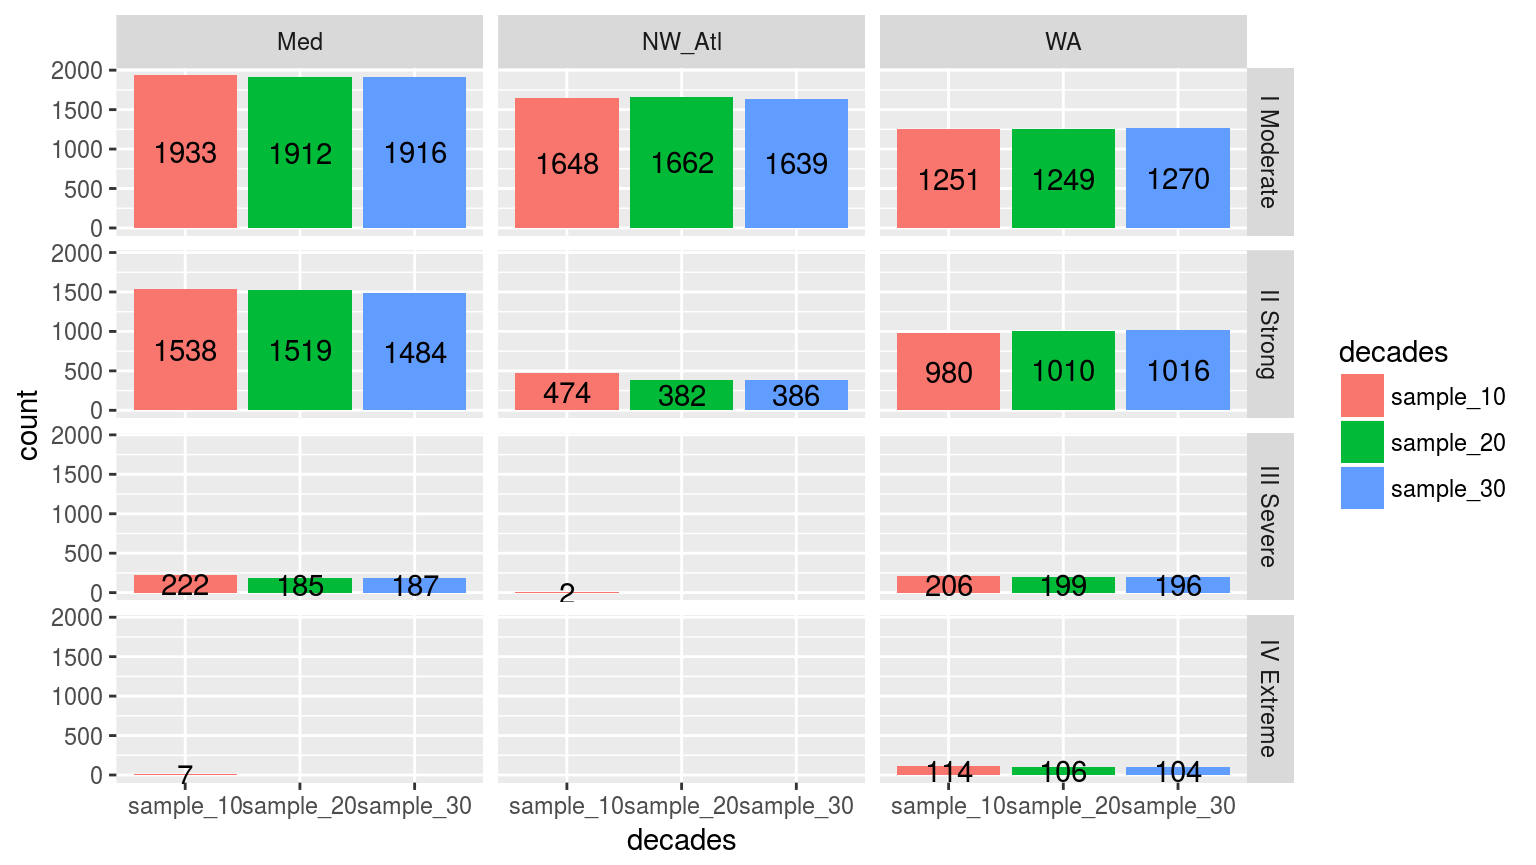
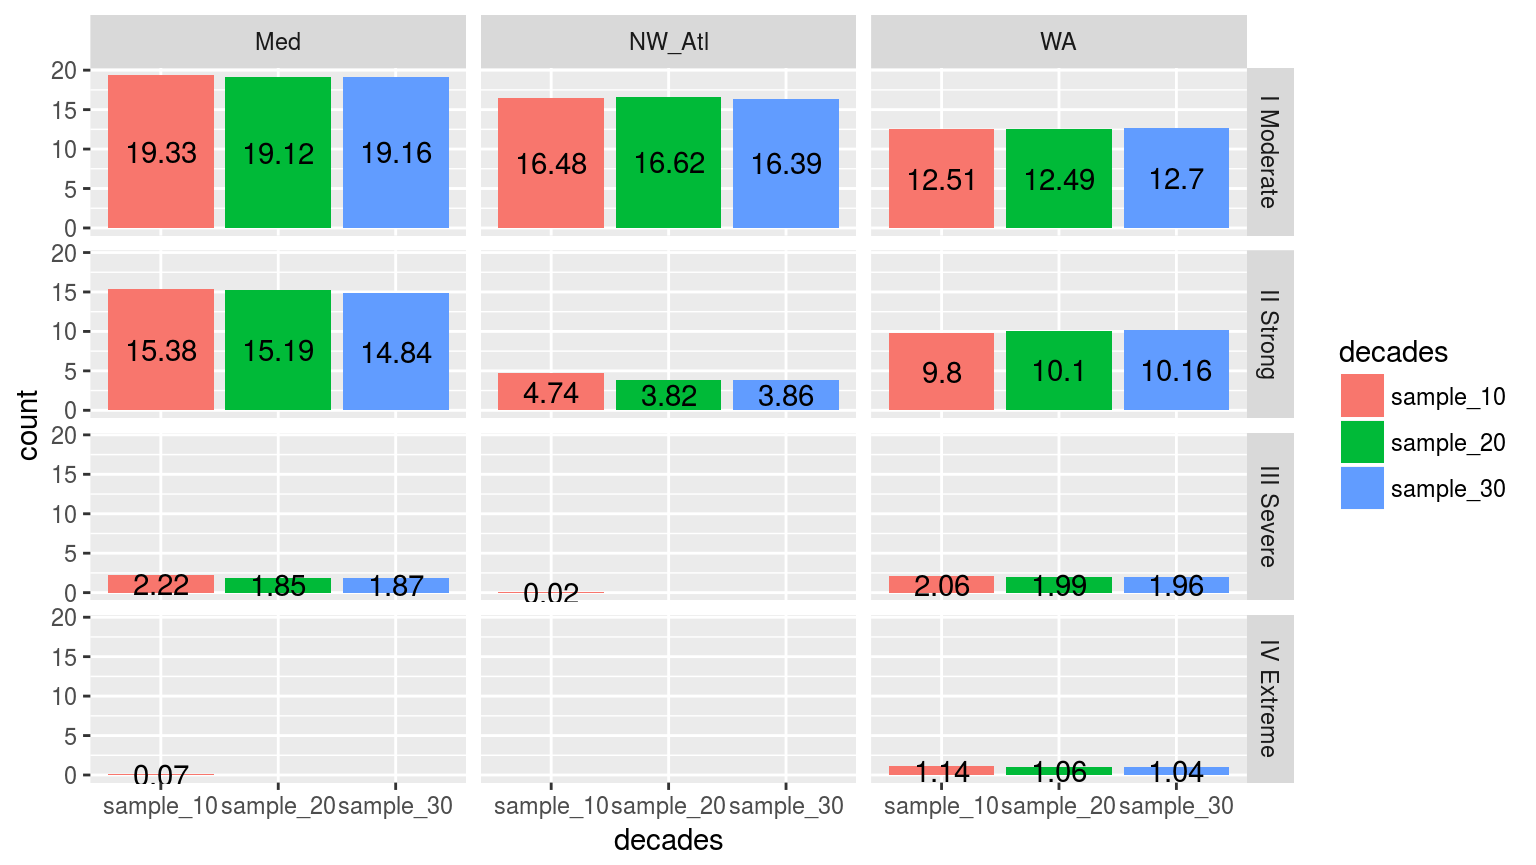
Rebuilt article to show changes

diff --git a/docs/articles/time_series_duration.html b/docs/articles/time_series_duration.html
@@ -110,7 +110,7 @@
       <h1>Assessing the effect of time series duration</h1>
                         <h4 class="author">Robert Schlegel</h4>
             
-            <h4 class="date">2018-06-13</h4>
+            <h4 class="date">2018-06-21</h4>
       
       
       <div class="hidden name"><code>time_series_duration.Rmd</code></div>
@@ -147,7 +147,8 @@
 <span class="kw">library</span>(lubridate) <span class="co"># This is intentionally activated after data.table</span>
 <span class="kw">library</span>(fasttime)
 <span class="kw">library</span>(ggpubr)
-<span class="kw">library</span>(boot)</code></pre></div>
+<span class="kw">library</span>(boot)
+<span class="kw">library</span>(FNN)</code></pre></div>
 <p>In order to control more tightly for the effect of shorter time series I am going to standardise the length of the 30 year time series as well. Because the built in time series are actually 32 years long I am going to nip off those last two years. The WMO recommends that climatologies be 30 years in length, starting on the first year of a decade (e.g. 1981). Unfortunately the OISST data from which the built-in time series have been drawn only start in 1982. For this reason we will set the 30 year climatology period as being from 1982 – 2011. To match this period, but shorter, 2011 will be taken as the last year for comparison and the data from 2012 onward will not be used.</p>
 <div class="sourceCode"><pre class="sourceCode r"><code class="sourceCode r"><span class="co"># First put all of the data together and create a site column</span>
 sst_ALL &lt;-<span class="st"> </span><span class="kw">rbind</span>(sst_Med, sst_NW_Atl, sst_WA) <span class="op">%&gt;%</span><span class="st"> </span>
@@ -411,9 +412,9 @@ Confidence intervals of the different metrics for the three different clim perio
 parse_date_sst &lt;-<span class="st"> </span><span class="cf">function</span>(data, rep_col, len) {
   parsed &lt;-<span class="st"> </span>data <span class="op">%&gt;%</span><span class="st"> </span>
 <span class="st">    </span><span class="kw">mutate</span>(<span class="dt">id =</span> rep_col,
-           <span class="dt">y =</span> <span class="kw"><a href="http://www.rdocumentation.org/packages/lubridate/topics/year">year</a></span>(t),
-           <span class="dt">m =</span> <span class="kw"><a href="http://www.rdocumentation.org/packages/lubridate/topics/month">month</a></span>(t),
-           <span class="dt">d =</span> <span class="kw"><a href="http://www.rdocumentation.org/packages/lubridate/topics/day">day</a></span>(t)) <span class="op">%&gt;%</span><span class="st"> </span>
+           <span class="dt">y =</span> <span class="kw"><a href="http://lubridate.tidyverse.org/reference/year.html">year</a></span>(t),
+           <span class="dt">m =</span> <span class="kw"><a href="http://lubridate.tidyverse.org/reference/month.html">month</a></span>(t),
+           <span class="dt">d =</span> <span class="kw"><a href="http://lubridate.tidyverse.org/reference/day.html">day</a></span>(t)) <span class="op">%&gt;%</span><span class="st"> </span>
 <span class="st">    </span><span class="kw">group_by</span>(site, rep, doy) <span class="op">%&gt;%</span><span class="st"> </span>
 <span class="st">    </span><span class="kw">mutate</span>(<span class="dt">y =</span> <span class="kw">seq</span>(<span class="dv">2012</span><span class="op">-</span>len, <span class="dt">by =</span> <span class="dv">1</span>, <span class="dt">len =</span> len)) <span class="op">%&gt;%</span><span class="st"> </span>
 <span class="st">    </span><span class="kw">mutate</span>(<span class="dt">t =</span> <span class="kw">as.Date</span>(<span class="kw"><a href="http://www.rdocumentation.org/packages/fasttime/topics/fastPOSIXct">fastPOSIXct</a></span>(<span class="kw">paste</span>(y, m, d, <span class="dt">sep =</span> <span class="st">"-"</span>)))) <span class="op">%&gt;%</span>
@@ -422,7 +423,7 @@ parse_date_sst &lt;-<span class="st"> </span><span class="cf">function</span>(da
   <span class="kw">return</span>(parsed)
 }</code></pre></div>
 <div class="sourceCode"><pre class="sourceCode r"><code class="sourceCode r">sst_ALL_doy &lt;-<span class="st"> </span>sst_ALL <span class="op">%&gt;%</span>
-<span class="st">  </span><span class="kw">mutate</span>(<span class="dt">doy =</span> <span class="kw"><a href="http://www.rdocumentation.org/packages/lubridate/topics/day">yday</a></span>(<span class="kw">as.Date</span>(t))) <span class="op">%&gt;%</span>
+<span class="st">  </span><span class="kw">mutate</span>(<span class="dt">doy =</span> <span class="kw"><a href="http://lubridate.tidyverse.org/reference/day.html">yday</a></span>(<span class="kw">as.Date</span>(t))) <span class="op">%&gt;%</span>
 <span class="st">  </span><span class="kw">nest</span>(<span class="op">-</span>site, <span class="op">-</span>doy)
 
 sst_ALL_repl &lt;-<span class="st"> </span>purrr<span class="op">::</span><span class="kw"><a href="http://www.rdocumentation.org/packages/purrr/topics/rerun">rerun</a></span>(<span class="dv">100</span>, <span class="kw">sst_repl</span>(sst_ALL_doy)) <span class="op">%&gt;%</span>
@@ -811,7 +812,7 @@ sst_ALL_smooth_real_category &lt;-<span class="st"> </span>sst_ALL_smooth_real <
 sst_ALL_smooth_real_category_count &lt;-<span class="st"> </span>sst_ALL_smooth_real_category <span class="op">%&gt;%</span><span class="st"> </span>
 <span class="st">  </span><span class="kw">rename</span>(<span class="dt">decades =</span> id) <span class="op">%&gt;%</span><span class="st"> </span>
 <span class="st">  </span><span class="kw">group_by</span>(site, decades, category) <span class="op">%&gt;%</span><span class="st"> </span>
-<span class="st">  </span><span class="kw">summarise</span>(<span class="dt">count =</span> <span class="kw">n</span>()) <span class="op">%&gt;%</span><span class="st"> </span>
+<span class="st">  </span><span class="kw">summarise</span>(<span class="dt">count =</span> <span class="kw">n</span>()<span class="op">/</span><span class="dv">100</span>) <span class="op">%&gt;%</span><span class="st"> </span>
 <span class="st">  </span><span class="kw">mutate</span>(<span class="dt">category =</span> <span class="kw">factor</span>(category,
                            <span class="dt">levels =</span> <span class="kw">c</span>(<span class="st">"I Moderate"</span>, <span class="st">"II Strong"</span>,
                                       <span class="st">"III Severe"</span>, <span class="st">"IV Extreme"</span>)))
@@ -826,6 +827,119 @@ Simple bar plots showing the counts of the different categories of events from 1
 </p>
 </div>
 <p>Interestingly, when re-sampling for potential clims we actually see the detection of <em>more</em> larger category events with the 10 year periods than with either 20 or 30. As noted earlier, this re-sampling reoves the decadal trend from the data, which then affects the creation of the climatologies being used. With a shorter period being used to create the threshold, it appears that this allows for the detection of ‘larger’ events. Remember that the real temperature values are being used to detect these events, not the re-sampled temperature values that were used to calculate the climatologies. This was because the re-sampled temperatures were too jumbled to detect events with reliably.</p>
+<div id="comparing-top-events" class="section level3">
+<h3 class="hasAnchor">
+<a href="#comparing-top-events" class="anchor"></a>Comparing top events</h3>
+<p>(AJS: I was thinking about the event categories. What we need to do is detect the top five events using the 30 yr climatology.</p>
+<div class="sourceCode"><pre class="sourceCode r"><code class="sourceCode r"><span class="co"># Calculate all event categories, not just the last ten years as done above</span>
+sst_ALL_clim_category_ALL &lt;-<span class="st"> </span>sst_ALL_clim <span class="op">%&gt;%</span><span class="st"> </span>
+<span class="st">  </span><span class="kw">group_by</span>(site, decades) <span class="op">%&gt;%</span><span class="st"> </span>
+<span class="st">  </span><span class="kw">nest</span>() <span class="op">%&gt;%</span><span class="st"> </span>
+<span class="st">  </span><span class="kw">mutate</span>(<span class="dt">res =</span> <span class="kw">map</span>(data, detect_event_category)) <span class="op">%&gt;%</span><span class="st"> </span>
+<span class="st">  </span><span class="kw">select</span>(<span class="op">-</span>data) <span class="op">%&gt;%</span><span class="st"> </span>
+<span class="st">  </span><span class="kw">unnest</span>(res)
+
+<span class="co"># The top 5 events froom 30 years</span>
+sst_ALL_clim_category_30_top_<span class="dv">5</span> &lt;-<span class="st"> </span>sst_ALL_clim_category_ALL <span class="op">%&gt;%</span><span class="st"> </span>
+<span class="st">  </span><span class="kw">filter</span>(decades <span class="op">==</span><span class="st"> "clim_30"</span>,
+         peak_date <span class="op">&gt;=</span><span class="st"> </span><span class="kw">as.Date</span>(<span class="st">"1982-01-01"</span>),
+         peak_date <span class="op">&lt;=</span><span class="st"> </span><span class="kw">as.Date</span>(<span class="st">"2011-12-31"</span>)) <span class="op">%&gt;%</span><span class="st"> </span>
+<span class="st">  </span><span class="kw">group_by</span>(site) <span class="op">%&gt;%</span><span class="st"> </span>
+<span class="st">  </span><span class="kw">arrange</span>(<span class="op">-</span>i_max) <span class="op">%&gt;%</span><span class="st"> </span>
+<span class="st">  </span><span class="kw">slice</span>(<span class="dv">1</span><span class="op">:</span><span class="dv">5</span>)
+
+<span class="co"># The top 5 events froom 20 years</span>
+sst_ALL_clim_category_20_top_<span class="dv">5</span> &lt;-<span class="st"> </span>sst_ALL_clim_category_ALL <span class="op">%&gt;%</span><span class="st"> </span>
+<span class="st">  </span><span class="kw">filter</span>(decades <span class="op">==</span><span class="st"> "clim_20"</span>,
+         peak_date <span class="op">&gt;=</span><span class="st"> </span><span class="kw">as.Date</span>(<span class="st">"1992-01-01"</span>),
+         peak_date <span class="op">&lt;=</span><span class="st"> </span><span class="kw">as.Date</span>(<span class="st">"2011-12-31"</span>)) <span class="op">%&gt;%</span><span class="st"> </span>
+<span class="st">  </span><span class="kw">group_by</span>(site) <span class="op">%&gt;%</span><span class="st"> </span>
+<span class="st">  </span><span class="kw">arrange</span>(<span class="op">-</span>i_max) <span class="op">%&gt;%</span><span class="st"> </span>
+<span class="st">  </span><span class="kw">slice</span>(<span class="dv">1</span><span class="op">:</span><span class="dv">5</span>)
+
+<span class="co"># The top 5 events froom 10 years</span>
+sst_ALL_clim_category_10_top_<span class="dv">5</span> &lt;-<span class="st"> </span>sst_ALL_clim_category_ALL <span class="op">%&gt;%</span><span class="st"> </span>
+<span class="st">  </span><span class="kw">filter</span>(decades <span class="op">==</span><span class="st"> "clim_10"</span>,
+         peak_date <span class="op">&gt;=</span><span class="st"> </span><span class="kw">as.Date</span>(<span class="st">"2002-01-01"</span>),
+         peak_date <span class="op">&lt;=</span><span class="st"> </span><span class="kw">as.Date</span>(<span class="st">"2011-12-31"</span>)) <span class="op">%&gt;%</span><span class="st"> </span>
+<span class="st">  </span><span class="kw">group_by</span>(site) <span class="op">%&gt;%</span><span class="st"> </span>
+<span class="st">  </span><span class="kw">arrange</span>(<span class="op">-</span>i_max) <span class="op">%&gt;%</span><span class="st"> </span>
+<span class="st">  </span><span class="kw">slice</span>(<span class="dv">1</span><span class="op">:</span><span class="dv">5</span>)</code></pre></div>
+<p>Then, using the sections of time series that overlap with these events, use reduced time series, make climatologies, and see how those top five events compare in their event metrics to those detected using the shorter climatologies.</p>
+<div class="sourceCode"><pre class="sourceCode r"><code class="sourceCode r"><span class="co"># RWS: This is a bit of a schlep as it requires a much more nuanced take on how to go about comparing relavent lengths of clim periods. The method used throughout here, that of the most recent 10, 20, or 30 years for the clim period won't work here and I hesitate to create a new methodology this late in the section...</span>
+<span class="co"># RWS: So for now I'm skipping forward to the next step as that will work with the current methodology.</span></code></pre></div>
+<p>Then we do the reverse. Detect events in the reduced time series, find the top five, and see what the matching ones in the full time series are like in comparison.</p>
+<div class="sourceCode"><pre class="sourceCode r"><code class="sourceCode r"><span class="co"># Function for pulling out comparable events based on closest peak dates</span>
+peak_date_index &lt;-<span class="st"> </span><span class="cf">function</span>(df){
+  sst_<span class="dv">30</span> &lt;-<span class="st"> </span>sst_ALL_clim_category_ALL <span class="op">%&gt;%</span><span class="st"> </span>
+<span class="st">    </span><span class="kw">filter</span>(decades <span class="op">==</span><span class="st"> "clim_30"</span>)
+  peak_index &lt;-<span class="st"> </span><span class="kw">as.data.frame</span>(<span class="kw"><a href="http://www.rdocumentation.org/packages/FNN/topics/knn.index">knnx.index</a></span>(<span class="kw">as.matrix</span>(sst_<span class="dv">30</span><span class="op">$</span>peak_date), 
+                                         <span class="kw">as.matrix</span>(df<span class="op">$</span>peak_date), <span class="dt">k =</span> <span class="dv">1</span>))
+  res &lt;-<span class="st"> </span>sst_<span class="dv">30</span>[<span class="kw">as.matrix</span>(peak_index),]
+}</code></pre></div>
+<div class="sourceCode"><pre class="sourceCode r"><code class="sourceCode r"><span class="co"># Find matching events based on nearest peak_date</span>
+sst_ALL_clim_category_10_top_5_match &lt;-<span class="st"> </span><span class="kw">peak_date_index</span>(sst_ALL_clim_category_10_top_<span class="dv">5</span>)
+sst_ALL_clim_category_20_top_5_match &lt;-<span class="st"> </span><span class="kw">peak_date_index</span>(sst_ALL_clim_category_20_top_<span class="dv">5</span>)</code></pre></div>
+<div class="sourceCode"><pre class="sourceCode r"><code class="sourceCode r">sst_ALL_clim_category_top_5_match &lt;-<span class="st"> </span><span class="kw">rbind</span>(<span class="kw">data.frame</span>(sst_ALL_clim_category_10_top_5_match, <span class="dt">match =</span> <span class="st">"clim_10"</span>),
+                                           <span class="kw">data.frame</span>(sst_ALL_clim_category_20_top_5_match, <span class="dt">match =</span> <span class="st">"clim_20"</span>),
+                                           <span class="kw">data.frame</span>(sst_ALL_clim_category_30_top_<span class="dv">5</span>, <span class="dt">match =</span> <span class="st">"clim_30"</span>)) <span class="op">%&gt;%</span><span class="st"> </span>
+<span class="st">  </span><span class="kw">group_by</span>(site, match, category) <span class="op">%&gt;%</span><span class="st"> </span>
+<span class="st">  </span><span class="kw">summarise</span>(<span class="dt">count =</span> <span class="kw">n</span>()) <span class="op">%&gt;%</span><span class="st"> </span>
+<span class="st">  </span><span class="kw">mutate</span>(<span class="dt">category =</span> <span class="kw">factor</span>(category,
+                           <span class="dt">levels =</span> <span class="kw">c</span>(<span class="st">"I Moderate"</span>, <span class="st">"II Strong"</span>,
+                                      <span class="st">"III Severe"</span>, <span class="st">"IV Extreme"</span>)))
+
+<span class="kw">ggplot</span>(sst_ALL_clim_category_top_5_match, <span class="kw">aes</span>(<span class="dt">x =</span> match, <span class="dt">y =</span> count, <span class="dt">fill =</span> match)) <span class="op">+</span>
+<span class="st">  </span><span class="kw">geom_bar</span>(<span class="dt">stat =</span> <span class="st">"identity"</span>, <span class="dt">position =</span> <span class="kw">position_dodge</span>()) <span class="op">+</span>
+<span class="st">  </span><span class="kw">geom_text</span>(<span class="kw">aes</span>(<span class="dt">label =</span> count, <span class="dt">y =</span> count<span class="op">/</span><span class="dv">2</span>)) <span class="op">+</span>
+<span class="st">  </span><span class="kw">facet_grid</span>(category<span class="op">~</span>site)</code></pre></div>
+<div class="figure" style="text-align: center">
+<img src="time_series_duration_files/figure-html/unnamed-chunk-9-1.png" alt="Bar plot showing the categories of events from the 30 year climatology calculations when they are determined by the top five events in the shorter time series. THis isn't terribly informative as it is effectively showing if larger events happened earlier on in the time series or not. It says little about how the climatology period itself affects the categories of events." width="768"><p class="caption">
+Bar plot showing the categories of events from the 30 year climatology calculations when they are determined by the top five events in the shorter time series. THis isn’t terribly informative as it is effectively showing if larger events happened earlier on in the time series or not. It says little about how the climatology period itself affects the categories of events.
+</p>
+</div>
+<p>With the differences in the count of categories for the detected events in the given time series lengths shown above, we will now compare the categories of the matching events between the different climatologies used.</p>
+<div class="sourceCode"><pre class="sourceCode r"><code class="sourceCode r">sst_ALL_clim_category_10_top_5_compare &lt;-<span class="st"> </span><span class="kw">rbind</span>(<span class="kw">data.frame</span>(sst_ALL_clim_category_10_top_<span class="dv">5</span>, <span class="dt">match =</span> <span class="st">"clim_10"</span>),
+                                           <span class="kw">data.frame</span>(sst_ALL_clim_category_10_top_5_match, <span class="dt">match =</span> <span class="st">"clim_30"</span>)) <span class="op">%&gt;%</span><span class="st"> </span>
+<span class="st">  </span><span class="kw">group_by</span>(site, match, category) <span class="op">%&gt;%</span><span class="st"> </span>
+<span class="st">  </span><span class="kw">summarise</span>(<span class="dt">count =</span> <span class="kw">n</span>()) <span class="op">%&gt;%</span><span class="st"> </span>
+<span class="st">  </span><span class="kw">mutate</span>(<span class="dt">category =</span> <span class="kw">factor</span>(category,
+                           <span class="dt">levels =</span> <span class="kw">c</span>(<span class="st">"I Moderate"</span>, <span class="st">"II Strong"</span>,
+                                      <span class="st">"III Severe"</span>, <span class="st">"IV Extreme"</span>)))
+
+<span class="kw">ggplot</span>(sst_ALL_clim_category_10_top_5_compare, <span class="kw">aes</span>(<span class="dt">x =</span> match, <span class="dt">y =</span> count, <span class="dt">fill =</span> match)) <span class="op">+</span>
+<span class="st">  </span><span class="kw">geom_bar</span>(<span class="dt">stat =</span> <span class="st">"identity"</span>, <span class="dt">position =</span> <span class="kw">position_dodge</span>()) <span class="op">+</span>
+<span class="st">  </span><span class="kw">geom_text</span>(<span class="kw">aes</span>(<span class="dt">label =</span> count, <span class="dt">y =</span> count<span class="op">/</span><span class="dv">2</span>)) <span class="op">+</span>
+<span class="st">  </span><span class="kw">facet_grid</span>(category<span class="op">~</span>site)</code></pre></div>
+<div class="figure" style="text-align: center">
+<img src="time_series_duration_files/figure-html/unnamed-chunk-10-1.png" alt="Comparing the categories of the top 5 events detected with a 10 year climatology as oppossed to those detected with the standard 30 we see that the general pattern is that events are larger with the 30 year climatology period." width="768"><p class="caption">
+Comparing the categories of the top 5 events detected with a 10 year climatology as oppossed to those detected with the standard 30 we see that the general pattern is that events are larger with the 30 year climatology period.
+</p>
+</div>
+<div class="sourceCode"><pre class="sourceCode r"><code class="sourceCode r">sst_ALL_clim_category_20_top_5_compare &lt;-<span class="st"> </span><span class="kw">rbind</span>(<span class="kw">data.frame</span>(sst_ALL_clim_category_20_top_<span class="dv">5</span>, <span class="dt">match =</span> <span class="st">"clim_20"</span>),
+                                           <span class="kw">data.frame</span>(sst_ALL_clim_category_20_top_5_match, <span class="dt">match =</span> <span class="st">"clim_30"</span>)) <span class="op">%&gt;%</span><span class="st"> </span>
+<span class="st">  </span><span class="kw">group_by</span>(site, match, category) <span class="op">%&gt;%</span><span class="st"> </span>
+<span class="st">  </span><span class="kw">summarise</span>(<span class="dt">count =</span> <span class="kw">n</span>()) <span class="op">%&gt;%</span><span class="st"> </span>
+<span class="st">  </span><span class="kw">mutate</span>(<span class="dt">category =</span> <span class="kw">factor</span>(category,
+                           <span class="dt">levels =</span> <span class="kw">c</span>(<span class="st">"I Moderate"</span>, <span class="st">"II Strong"</span>,
+                                      <span class="st">"III Severe"</span>, <span class="st">"IV Extreme"</span>)))
+
+<span class="kw">ggplot</span>(sst_ALL_clim_category_20_top_5_compare, <span class="kw">aes</span>(<span class="dt">x =</span> match, <span class="dt">y =</span> count, <span class="dt">fill =</span> match)) <span class="op">+</span>
+<span class="st">  </span><span class="kw">geom_bar</span>(<span class="dt">stat =</span> <span class="st">"identity"</span>, <span class="dt">position =</span> <span class="kw">position_dodge</span>()) <span class="op">+</span>
+<span class="st">  </span><span class="kw">geom_text</span>(<span class="kw">aes</span>(<span class="dt">label =</span> count, <span class="dt">y =</span> count<span class="op">/</span><span class="dv">2</span>)) <span class="op">+</span>
+<span class="st">  </span><span class="kw">facet_grid</span>(category<span class="op">~</span>site)</code></pre></div>
+<div class="figure" style="text-align: center">
+<img src="time_series_duration_files/figure-html/unnamed-chunk-11-1.png" alt="Comparing the categories of the top 5 events detected with a 20 year climatology as oppossed to those detected with the standard 30 we see that the difference in the size of the categories detected with a 30 year climatology is less than when compared against a 10 year climatology." width="768"><p class="caption">
+Comparing the categories of the top 5 events detected with a 20 year climatology as oppossed to those detected with the standard 30 we see that the difference in the size of the categories detected with a 30 year climatology is less than when compared against a 10 year climatology.
+</p>
+</div>
+<p>So, compare specific events in addition to the way in which you have done it. Then do the same for median-sized events,</p>
+<div class="sourceCode"><pre class="sourceCode r"><code class="sourceCode r"><span class="co"># RWS: I'm putting htis on hold for now until I've editted the text here and in the skeleton.</span></code></pre></div>
+<p>and the smallest ones.</p>
+<div class="sourceCode"><pre class="sourceCode r"><code class="sourceCode r"><span class="co"># RWS: Same for this chunk.</span></code></pre></div>
+<p>Maybe even those at the 2nd and 5th quantiles.)</p>
+<div class="sourceCode"><pre class="sourceCode r"><code class="sourceCode r"><span class="co"># RWS: Same for this chunk.</span></code></pre></div>
+</div>
 </div>
 <div id="arguments" class="section level2">
 <h2 class="hasAnchor">
